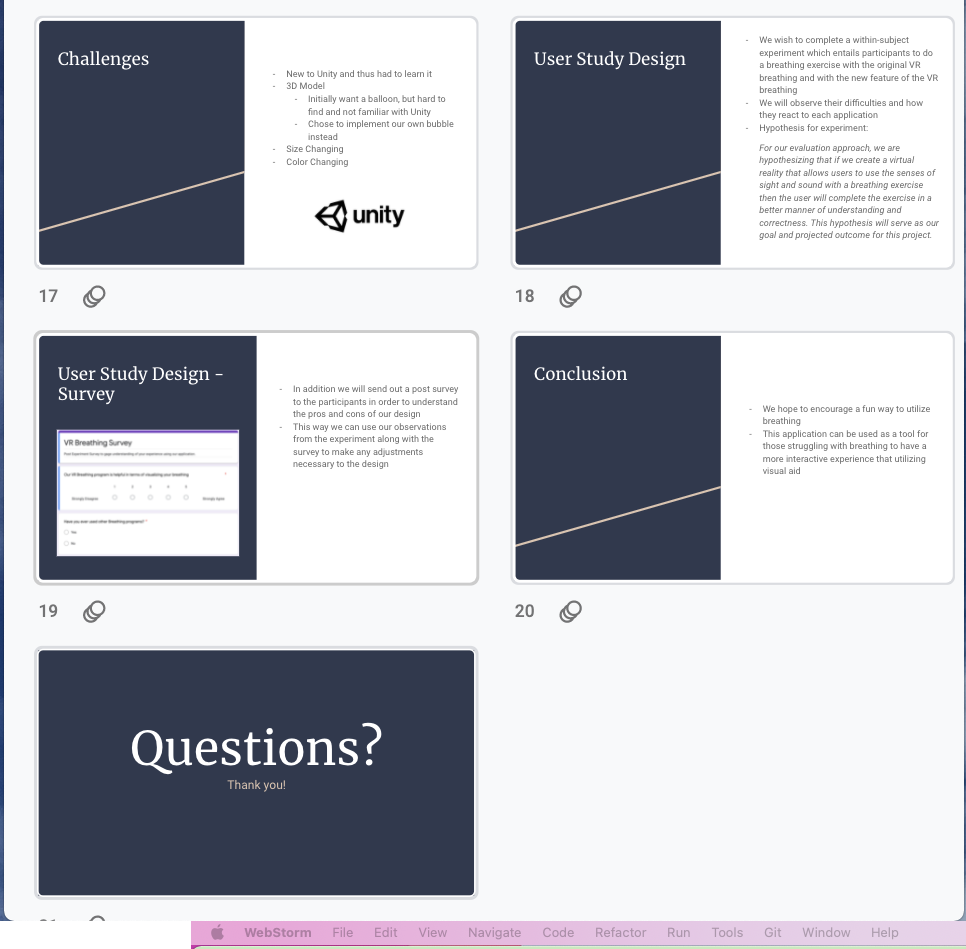
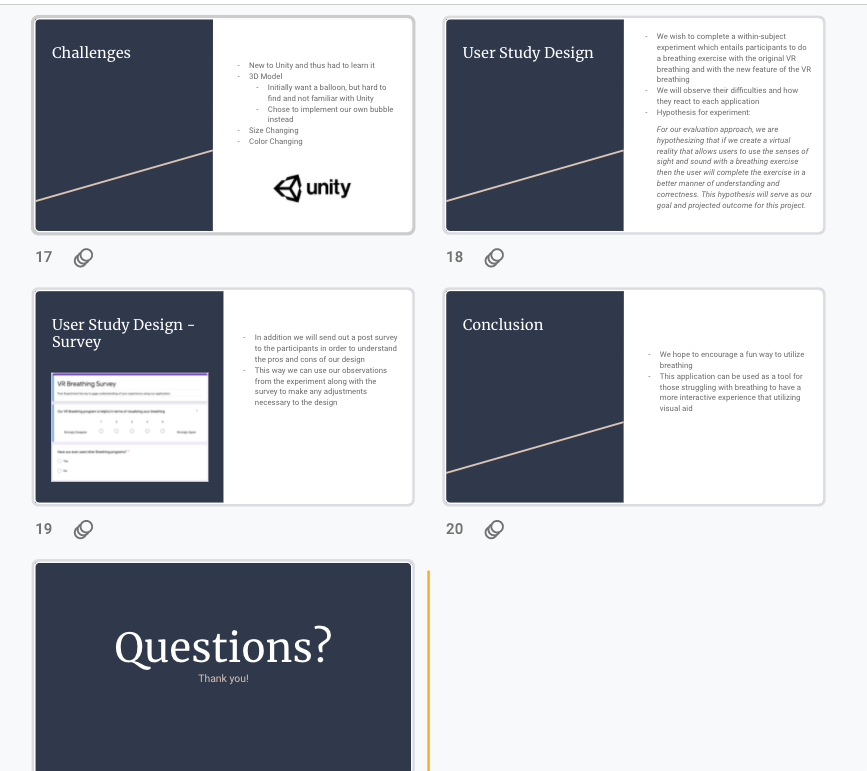
ppt.html fixed

Changed region(s): [[0.0, 0.0, 1.0, 1.0]]

diff --git a/src/ppt.html b/src/ppt.html
@@ -10,6 +10,22 @@
         body{
             background:#777d96;
         }
+
+        .center {
+            display: block;
+            margin-left: auto;
+            margin-right: auto;
+            width: 1000px;
+            height: 600px;
+        }
+
+        .centerSpec {
+            display: block;
+            margin-left: auto;
+            margin-right: auto;
+            width: 1000px;
+            height: 900px;
+        }
     </style>
 
     <ul>
@@ -31,11 +47,11 @@
         <li><a href="../src/fp.html">Source Code</a></li>
     </ul>
 
-    <img src="../images/ppt1.png" alt='ppt1' width="1000" height="600" >
-    <img src="../images/ppt2.png" alt='ppt2' width="1000" height="600" >
-    <img src="../images/ppt3.png" alt='ppt3' width="1000" height="600" >
-    <img src="../images/ppt4.png" alt='ppt4' width="1000" height="600" >
-    <img src="../images/ppt5.png" alt='ppt5' width="1000" height="600" >
+    <img src="../images/ppt1.png" alt='ppt1' class="center">
+    <img src="../images/ppt2.png" alt='ppt2' class="center">
+    <img src="../images/ppt3.png" alt='ppt3' class="center">
+    <img src="../images/ppt4.png" alt='ppt4' class="center">
+    <img src="../images/ppt5.png" alt='ppt5' class="centerSpec">
 
 
 </body>
